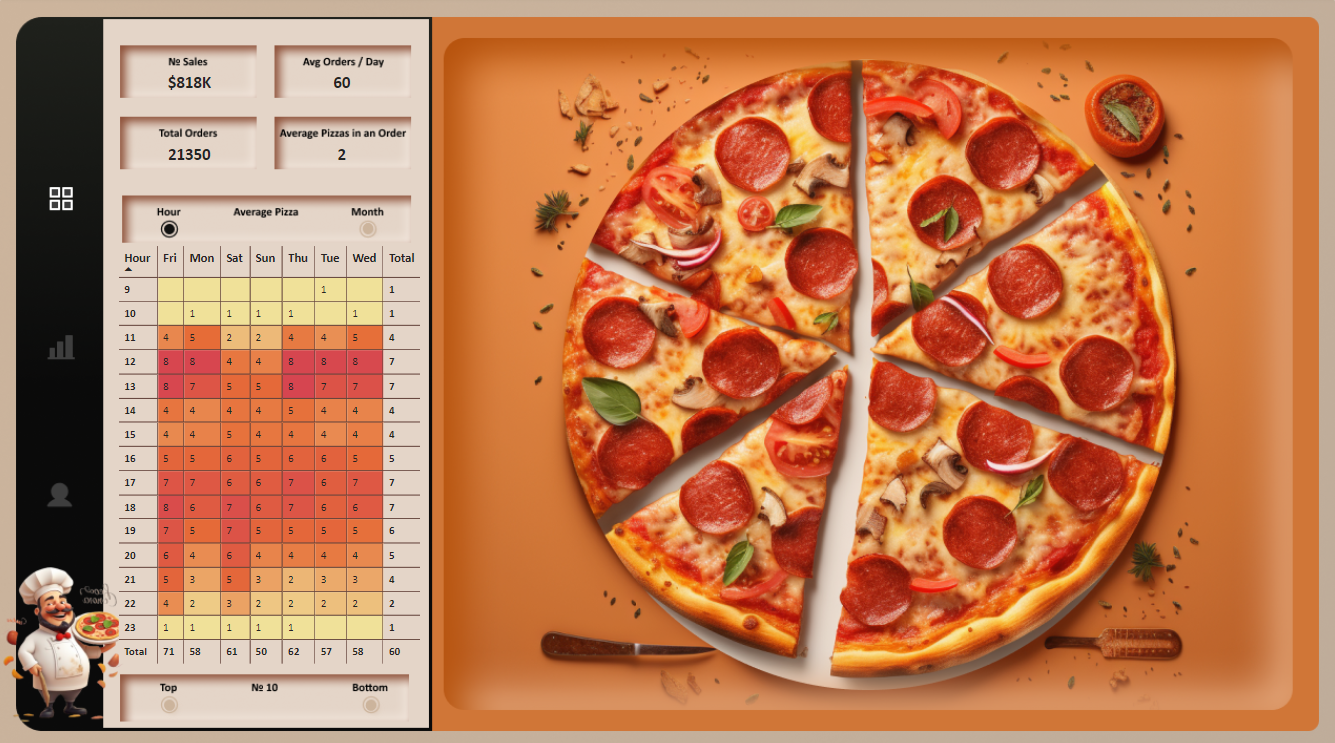
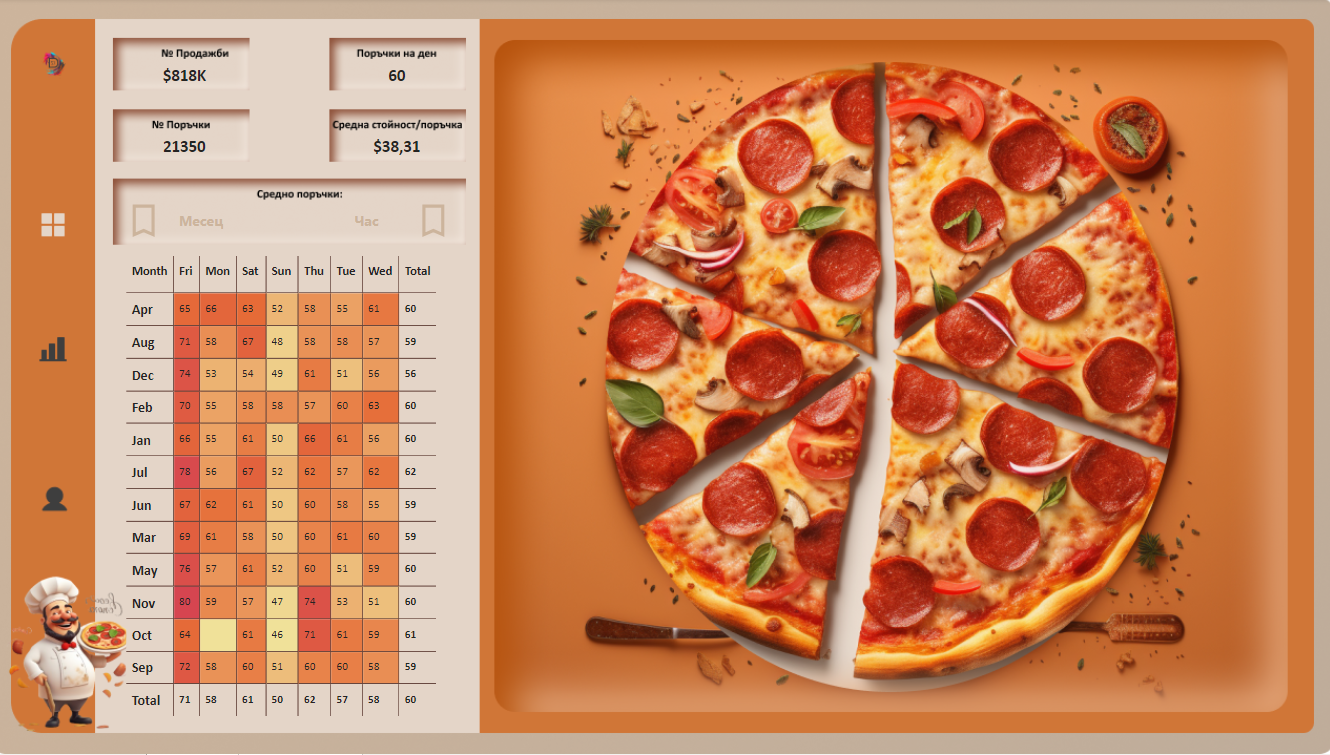
Resume

diff --git a/index.html b/index.html
@@ -1300,7 +1300,7 @@
 												<div class="post-box">
 													<h1>Web like Mavens Pizza Challenge </h1>
 <!--													<div class="blog-detail">Pandas</div>-->
-													 <a href="https://app.powerbi.com/view?r=eyJrIjoiNDdhZDM0ZjItNDk3Ny00M2ZkLThjNGYtMmUyNTlhY2I0ZTcyIiwidCI6ImYzODM5ZWQ3LWU3NjItNDA0MS04MmNmLWFlZDEwNTcyYjE0ZiIsImMiOjl9" class="button" target="_blank">
+													 <a href="https://app.powerbi.com/view?r=eyJrIjoiNTMxNGJmZTMtZDNmYS00YjhlLWIzZWMtNjUxYTlkMWU5ZmQyIiwidCI6ImYzODM5ZWQ3LWU3NjItNDA0MS04MmNmLWFlZDEwNTcyYjE0ZiIsImMiOjl9" class="button" target="_blank">
                                                         <span class="text">PowerBi Project</span>
                                                         <span class="arrow"></span>
                                                     </a>
